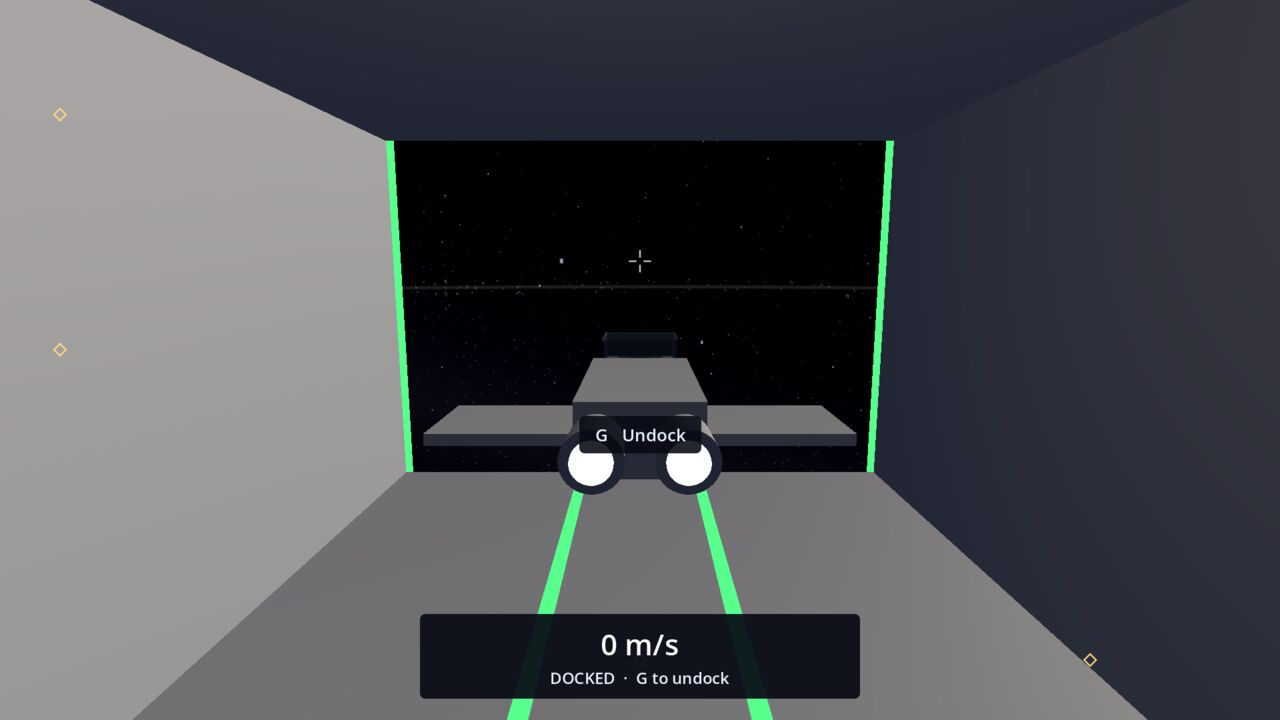
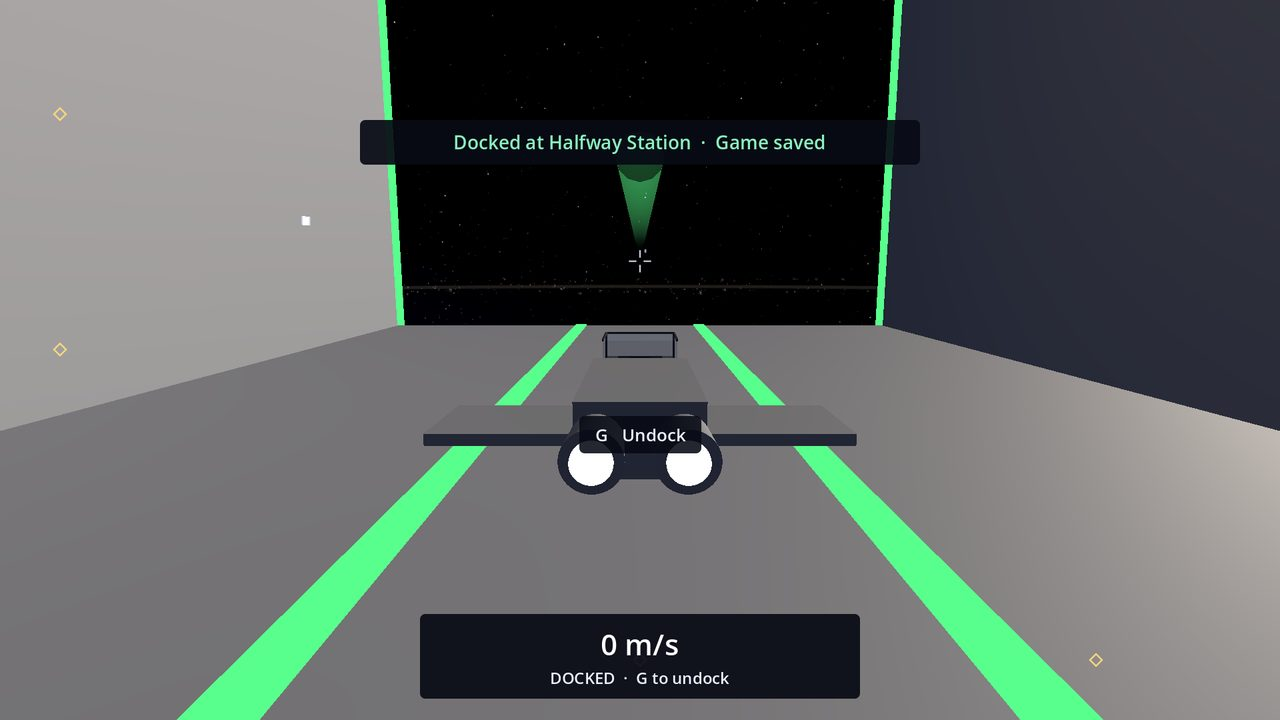
Wiki: guide lights, floor berth, short prompts, landing near the pad, SLOW DOWN
Docking and Landing gains guide lights, the speed the docking computer keeps,
settling onto the bay floor, landing within 600 m of the pad and the SLOW DOWN
warning; Orbit, Cruise Drive, Getting Started and Locations use the short
prompts and the new landing range; the Roadmap drops this work. New pictures
replace the ones showing the old prompts and the hovering ship.

Claude-Session: https://claude.ai/code/session_016cvAtB78797iXLaRJQgNjj

diff --git a/docs/wiki/Docking-and-Landing.md b/docs/wiki/Docking-and-Landing.md
@@ -3,38 +3,61 @@
 Docking at a station and landing at a base work the same way: get close, slow down, press **G**, and your ship's
 docking computer flies you in while you watch. There are no loading screens and the camera never cuts away.
 
-![The docking computer flying the ship round Calder to Halfway Station](images/docking-chase.jpg)
+## Guide lights
+
+Every place you can dock or land shines a faint light to line up with. Halfway Station's bay has a soft green beam
+coming straight out of its mouth along the way in. Tollgate's pad has a thin cyan beam going straight up. The beam gets
+a little brighter when you're lined up with it, and while the ship is flying itself in. You can fly all the way in by
+hand along the beam, but you still press **G** to dock or land.
+
+![Halfway Station's green guide light leading into the docking bay](images/station-guide-light.jpg)
 
 ## Docking at Halfway Station
 
-1. Fly toward Halfway Station. From about 3.5 km the HUD tells you what to do next:
-   "Fly within 1.5 km of Halfway Station to dock (2.3 km)", then "Slow below 100 m/s to dock at Halfway Station".
-2. When it shows **G  Dock at Halfway Station**, press **G**.
-3. The ship flies round the station to the front of its docking bay (the opening with the green frame), lines up,
-   and eases in nose first. Inside, it turns round and settles onto its berth, so you look out of the bay's mouth.
+1. Fly toward Halfway Station. From about 3.5 km the HUD tells you what to do next: "Fly within 1.5 km to dock
+   (2.3 km)", then "Slow below 100 m/s to dock".
+2. When it shows **G  Dock**, press **G**.
+3. The ship flies round the station to the front of its docking bay (the opening with the green frame and the green
+   beam), lines up and eases in nose first. Inside, it turns round so you look out of the bay's mouth, then settles
+   gently down onto the bay's floor.
 4. The HUD says "Docked at Halfway Station · Game saved".
 
-From the edge of the docking zone this takes about 30 to 40 seconds. Flying closer before pressing G makes it shorter.
+The docking computer carries on at about the speed you were going when you pressed **G**. It slows down as it needs
+to, but never races off much faster than you were flying. From the edge of the docking zone at 80 m/s it takes about
+40 seconds; from there at 10 m/s, nearer a minute. Flying closer before pressing **G** makes it shorter. If you've
+already flown into the bay and are close to its floor, **G** brings the ship in low, without climbing first.
 
-![Docked: the ship sits in the bay, facing out](images/docked-chase.jpg)
+![Docked: the ship sits on the bay's floor, facing out](images/docked-chase.jpg)
 
-**G** again undocks: the ship is eased straight out of the bay and handed back to you at 25 m/s.
+**G** again undocks: the ship lifts gently off the floor, is eased straight out of the bay and handed back to you at
+25 m/s.
 
 ## Landing at Tollgate
 
 Tollgate is the base on the planet Calder, on the side facing the station.
 
-1. Come within 4 km of Calder's surface, anywhere round the planet (orbit counts), slower than 100 m/s.
-2. When the HUD shows **G  Land at Tollgate**, press **G**.
-3. The ship flies to a point high above the landing pad, going round the planet if it needs to, then comes straight
-   down onto the pad, facing the hangar, and touches down softly.
+1. Head for Tollgate (the cruise drive drops you out about 4 km away). The HUD says "Fly within 600 m to land
+   (1.3 km)" until you're close to the pad.
+2. Within 600 m of the pad, slower than 100 m/s, the HUD shows **G  Land**. Press **G**. Landing isn't offered from
+   orbit or from high above the base: fly down to the pad first.
+3. The ship flies to a point above the landing pad (at least 120 m up, to clear the tower), then comes straight down
+   onto the pad, facing the hangar, and touches down softly.
 4. The HUD says "Landed at Tollgate · Game saved".
 
-Landing from orbit takes about 30 to 45 seconds; from the far side of Calder about 80 seconds.
+From the edge of the landing zone this takes about 20 to 30 seconds.
 
-![Coming in to land at Tollgate](images/landing-chase.jpg)
+![Close to Tollgate's pad, with its cyan guide light: landing is offered](images/tollgate-guide-light.jpg)
 
 **G** again takes off: the ship rises 30 m straight up off the pad, then hovers with flight assist on.
+
+## Too fast: SLOW DOWN
+
+Flying by hand, the HUD shows a red warning, for example "SLOW DOWN · Halfway Station in 4 s", when you're heading at
+something faster than you could comfortably stop. It names what's in the way (a station, base, planet, moon or the
+belt) and how many seconds until you reach it at this speed. At 100 m/s it warns you about 500 m out; below 6 m/s it
+stays quiet. Brake (**S**) or turn away and it goes.
+
+![The SLOW DOWN warning, heading at Halfway Station at 90 m/s](images/slow-down-warning.jpg)
 
 ## Taking back the controls
 

diff --git a/docs/wiki/Locations.md b/docs/wiki/Locations.md
@@ -21,12 +21,12 @@ The star. It is the light and the bright disc in the sky, not somewhere you can 
 ## Calder
 
 A blue planet with seas, green land, ice caps and a thin blue glow of air, 6 km in radius. Its orbit line is 3 km up, where you
-can park and circle it ([Orbit](Orbit)), and land at its base, Tollgate, from anywhere within 4 km of its surface.
+can park and circle it ([Orbit](Orbit)), and land at its base, Tollgate, within 600 m of its pad.
 
 ## Tollgate
 
-Calder's base: a landing pad with a hangar, a control tower and a beacon. Press G near Calder to land on its pad
-([Docking and Landing](Docking-and-Landing#landing-at-tollgate)). Landing saves the game.
+Calder's base: a landing pad with a hangar, a control tower and a beacon, with a faint cyan guide light shining
+straight up from the pad. Press **G** within 600 m of the pad to land on it ([Docking and Landing](Docking-and-Landing#landing-at-tollgate)). Landing saves the game.
 
 Services: none yet. Jobs, trading and loan payments will be here (see the [Roadmap](Roadmap)).
 
@@ -34,9 +34,9 @@ Services: none yet. Jobs, trading and loan payments will be here (see the [Roadm
 
 ## Halfway Station
 
-A space station of a long spine, a ring and solar panels, with an open docking bay on top framed in green. It hangs
-10 km above Calder, and it is where you start: 2 km away, with three buoys marking the way in. Press G nearby to dock
-([Docking and Landing](Docking-and-Landing#docking-at-halfway-station)). Docking saves the game.
+A space station of a long spine, a ring and solar panels, with an open docking bay on top framed in green, and a faint
+green guide light shining out of the bay. It hangs 10 km above Calder, and it is where you start: 2 km away, with three
+buoys marking the way in. Press **G** nearby to dock ([Docking and Landing](Docking-and-Landing#docking-at-halfway-station)). Docking saves the game.
 
 Services: none yet.
 

diff --git a/docs/wiki/Getting-Started.md b/docs/wiki/Getting-Started.md
@@ -12,16 +12,16 @@ There is no download yet (see the [FAQ](FAQ#is-there-a-download)). Once there is
    going. More on the [Flying](Flying) page.
 3. **Look around.** Press **V** for the chase camera behind the ship, and **V** again for the cockpit.
 4. **Dock at the station.** Fly toward Halfway Station's marker and slow down. When the HUD shows
-   **G  Dock at Halfway Station**, press **G** and your ship flies itself into the docking bay. **G** again undocks. See
+   **G  Dock**, press **G** and your ship flies itself into the docking bay. **G** again undocks. See
    [Docking and Landing](Docking-and-Landing).
 5. **Cruise somewhere.** Put the nose on a place's marker (try Mote, the moon) until it is framed in corner brackets
-   and the HUD says **F  Cruise to Mote**, then press **F**. After a two-second charge the cruise drive flies you there
+   and the HUD says **F  Cruise**, then press **F**. After a two-second charge the cruise drive flies you there
    by itself and drops out when you arrive. See [Cruise Drive](Cruise-Drive).
 6. **Park in orbit.** Head for Calder and climb to its orbit line, 3 km up: once you're off the ground a ring on the
    HUD shows where to join it. Close to the line, press **O** when the HUD offers it to circle the planet and enjoy
    the view. See [Orbit](Orbit).
-7. **Land.** Close to Calder, the HUD offers **G  Land at Tollgate**: press **G** and the ship flies down onto the
-   base's pad.
+7. **Land.** Fly to Tollgate, Calder's base, and follow its cyan guide light down. Within 600 m of the pad the HUD
+   offers **G  Land**: press **G** and the ship flies down onto the pad.
 
 The game saves itself every time you dock or land, and every 3 minutes while you fly.
 

diff --git a/docs/wiki/Orbit.md b/docs/wiki/Orbit.md
@@ -22,8 +22,8 @@ shows you the way:
 ## Entering orbit
 
 1. Climb to the line, slower than 250 m/s and not climbing or diving too steeply.
-2. Close to the line (within 600 m of it round Calder, 300 m round Mote) the HUD shows **O  Enter orbit round
-   Calder**. Press **O**.
+2. Close to the line (within 600 m of it round Calder, 300 m round Mote) the HUD shows **O  Enter orbit**.
+   Press **O**.
 3. The ship swings onto the orbit with a firm push and settles onto the line's height, turning so the planet fills the
    bottom of the cockpit window. Moving the mouse stops that turn and leaves the view to you.
 
@@ -42,7 +42,8 @@ you're in orbit.
 - **X** leaves and stops; **Z** leaves and drifts with flight assist off; starting the cruise drive leaves at once.
 - A hard bump knocks you out of orbit ("Bump! Knocked out of orbit").
 
-You can land at Tollgate straight from orbit round Calder: press **G** when the HUD offers it.
+To land at Tollgate from orbit, leave orbit and fly down to the base: landing is offered within 600 m of its pad
+([Docking and Landing](Docking-and-Landing#landing-at-tollgate)).
 
 ## Orbits
 

diff --git a/docs/wiki/Roadmap.md b/docs/wiki/Roadmap.md
@@ -11,8 +11,6 @@ Work already under way, which should arrive soon:
   ship, then docked at Halfway Station. Continue puts you back exactly where you saved, even out in space.
 - **Cockpit conveniences:** time to arrival next to the distance while cruising to a place, hold the right mouse
   button to look round the cockpit without steering, a key to roll level near a planet, and F12 for screenshots.
-- **Docking and landing help:** guide lights at the station and the pad, a ship that settles onto the floor instead of
-  hovering, and a warning when you come in too fast.
 - **A nav computer:** Tab turns the cockpit's middle screen into a nav computer to pick a place and how to arrive
   (dock, land or orbit), queue up steps and start the trip with Enter.
 

diff --git a/docs/wiki/Cruise-Drive.md b/docs/wiki/Cruise-Drive.md
@@ -8,7 +8,7 @@ as you near something, and drops you out when you arrive. A trip across the whol
 ## Fly to a place (lock on)
 
 1. Put the nose on a place's marker (or anywhere on a planet's or moon's disc). The marker is framed in corner
-   brackets and the HUD says, for example, **F  Cruise to Mote**.
+   brackets and the HUD says **F  Cruise**.
 2. Press **F**. The drive charges for 2 seconds while you fly normally, then takes over.
 3. Sit back. The ship turns to face the place and flies there by itself, going round any planet, moon or station in
    the way. The place's marker turns blue, the HUD reads "CRUISE LOCKED · F to drop out" and the dashboard shows the
